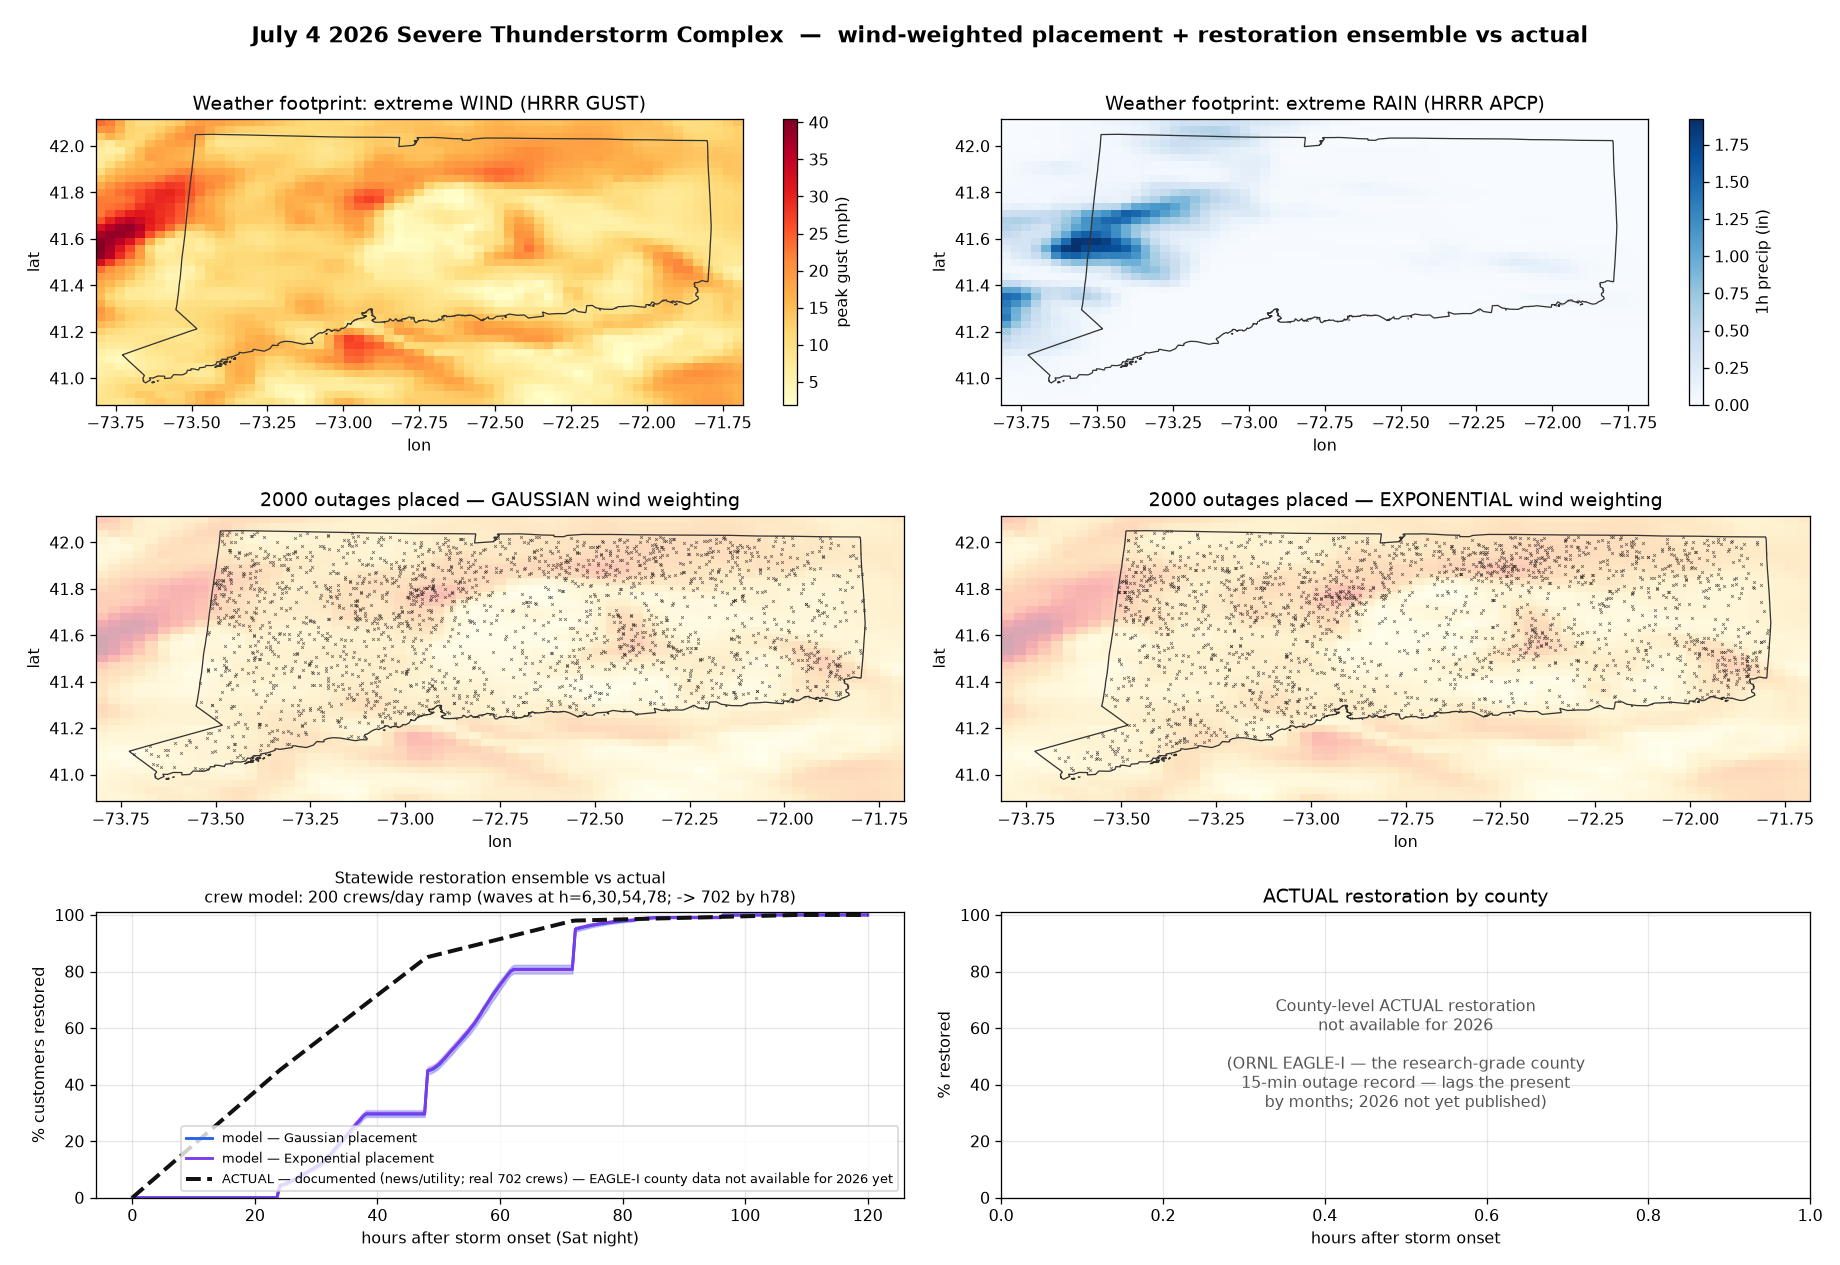
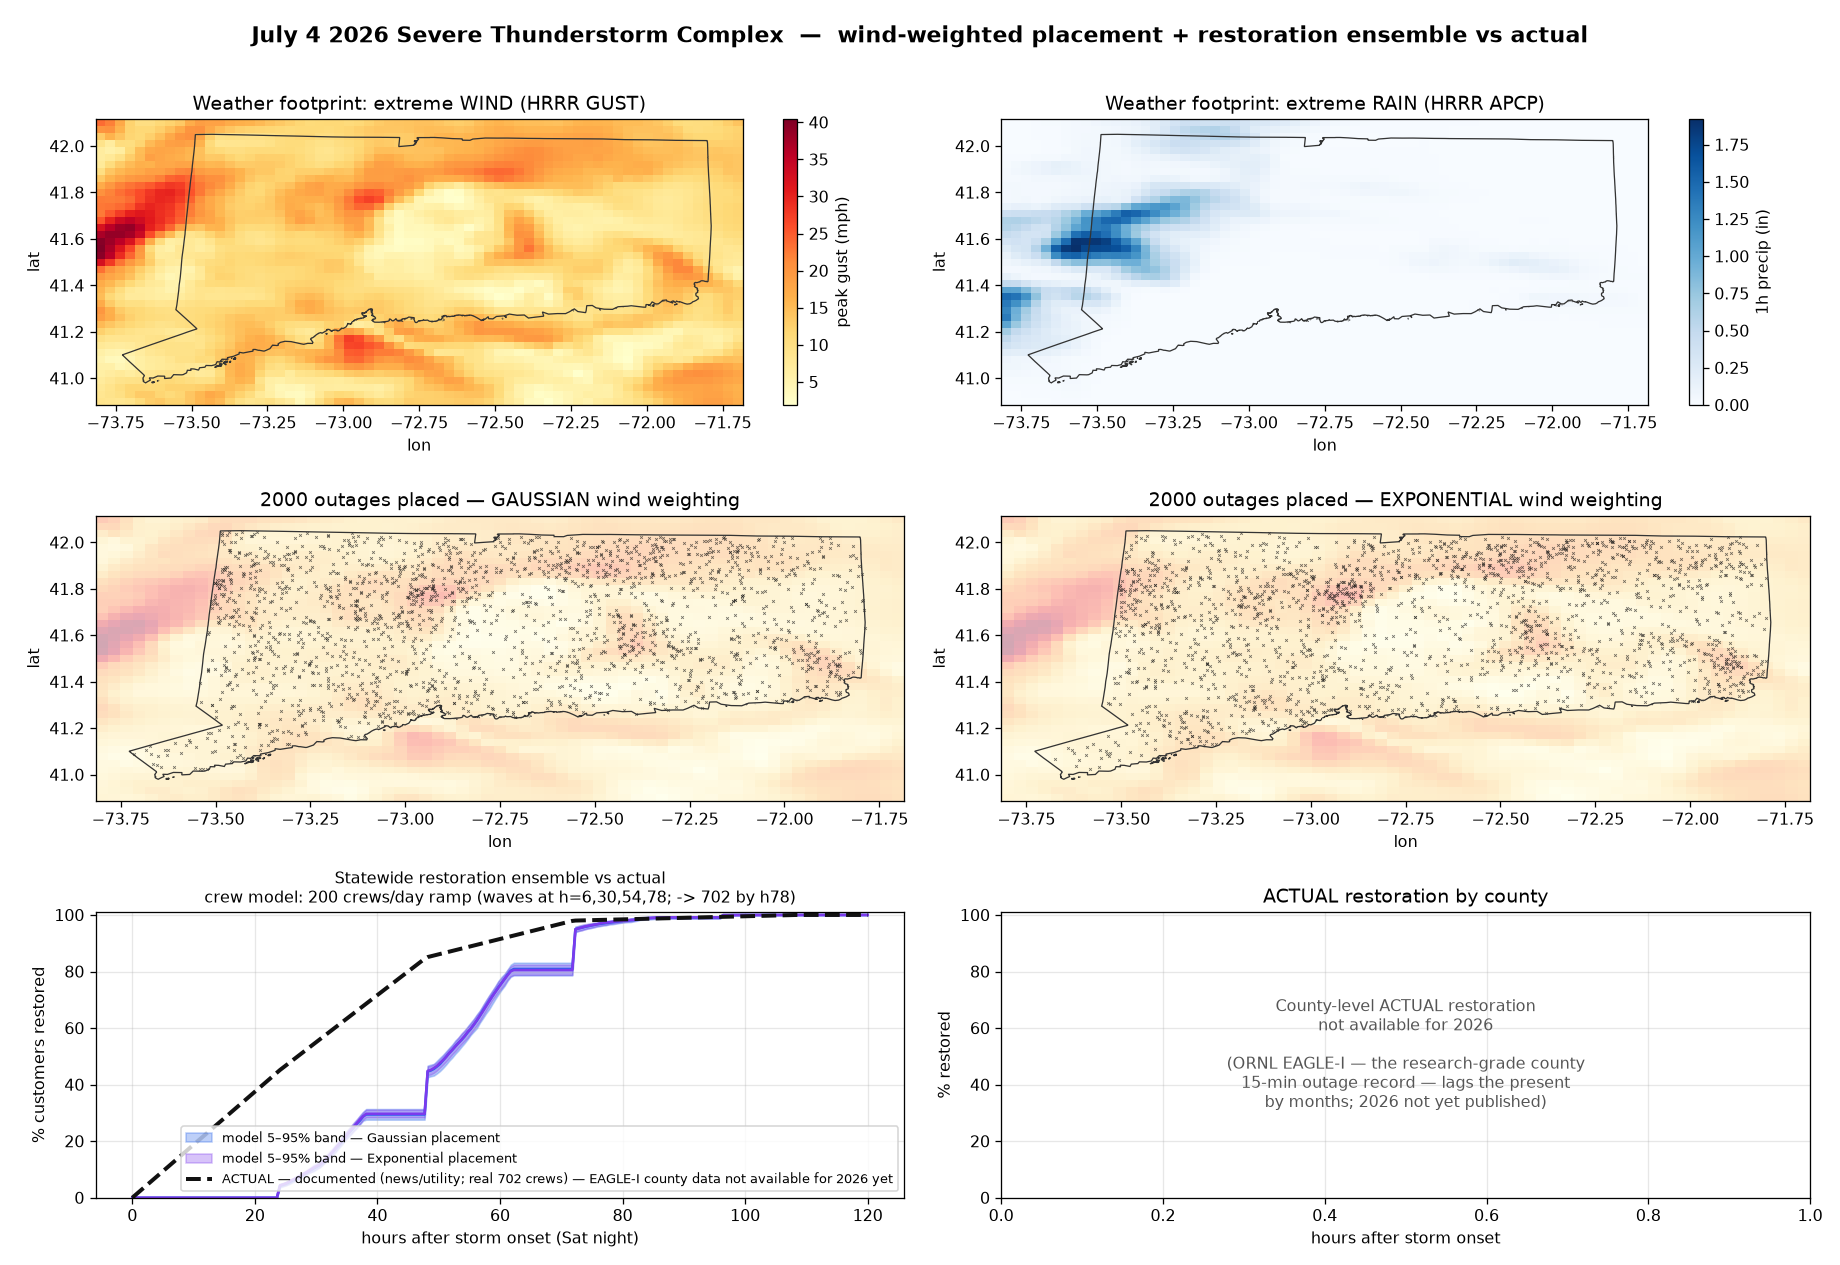
Add crew back-out analysis; fix un-ported discMaxTail in Python schedulers
New 21_crew_backout.py answers "how many crews does the model imply, vs
what the utility disclosed?" It inverts the model: for each storm, binary-
search the crew count at which the model reproduces the REAL restoration
time (EAGLE-I-measured / PURA / documented), and compare that implied
effective crew count to the disclosed peak crews. Table + two plots
(implied-vs-disclosed 1:1, crews-vs-storm-size surge relationship).

Building it surfaced a real bug: the discovery-tail cap (discMaxTail) that
scales with storm size was fixed in the JS scheduler earlier this session
but never ported to the three PYTHON schedulers, which still hardcoded
min(36h). That put a spurious ~46h discovery floor on small storms in the
Python path -- so the server (and the back-out) over-predicted small
storms regardless of crews, diverging from the calibrated JS. Ported the
size-scaled cap to scheduler_numba (both njit variants), scheduler_fast,
and 05_generate_artifacts. Large storms (N~20k) are unchanged (cap still
36h); small storms now match the JS. Verified: Oct 2020 at 300 crews went
from a buggy 61h to 48.6h (matching JS ~45h) and is crew-responsive again.

Findings (with honest caveats):
 - The two BEST-sourced storms -- Isaias (real 4500 crews, EAGLE-I 199h)
   and Dec 2023 (real 700, 96h) -- both imply 0.79x their disclosed crews.
   A clean, consistent read: ~20% of disclosed "crews" are tree/assessment/
   support (not line restoration), or equivalently the model's per-crew
[…]

diff --git a/21_crew_backout.py b/21_crew_backout.py
@@ -1,0 +1,209 @@
+"""
+21_crew_backout.py -- Estimate each storm's crew count by INVERTING the
+restoration model, then validate against the utility's disclosed crew numbers.
+
+The idea: the model's restoration time is monotonic in crew count (more crews
+-> faster). So for a storm whose REAL restoration time we measured (by tracking
+the actual outage decay -- ORNL EAGLE-I 15-min data where it exists, PURA
+docket / news where it doesn't), we can binary-search the crew count M at which
+the model reproduces that real time. That M is the "model-implied effective
+crew count." Comparing it to the crews the utility ACTUALLY disclosed tells us:
+
+  - implied ~ disclosed  -> the model's crew productivity is calibrated right
+  - implied systematically off -> quantifies model bias, or reveals real crew
+    inefficiency (out-of-town mutual-aid crews work slower, "crews" may bundle
+    support staff, etc.)
+  - implied-vs-disclosed across storm sizes -> surge/reserve behavior
+
+Uses scheduler_numba (the real statewide model) consistently for every storm,
+so any systematic model offset is the same across the comparison. Placement is
+uniform over CT land at each storm's calibrated outage count -- for a whole-
+state restoration TIME the count + crews dominate; exact spatial pattern is
+second-order (and using one placement scheme keeps storms comparable).
+
+Usage:
+    python 21_crew_backout.py
+"""
+from __future__ import annotations
+import json
+from pathlib import Path
+
+import numpy as np
+
+HERE = Path(__file__).parent
+DATA = HERE / "data"
+OUT_DIR = HERE / "output"
+
+# name, calibrated n_out, customer peak, real restoration hours, real-time
+# source, disclosed peak crews, disclosed-crew confidence.
+#   time_src: "eaglei" (measured 15-min) | "pura" (regulatory) | "documented"
+#   crew_conf: "real" (utility/press disclosed) | "interp" (interpolated here)
+STORMS = [
+    # label,            n_out, cust,   real_h, time_src,     crews, crew_conf
+    ("Isaias 2020",     20450, 632632, 199,   "eaglei",     4500,  "real"),
+    ("Sandy 2012",      15500, 496769, 264,   "pura",       4000,  "interp"),
+    ("Irene 2011",      21350, 671789, 288,   "pura",       3800,  "interp"),
+    ("Snowtober 2011",  26050, 807228, 264,   "pura",       4800,  "interp"),
+    ("Aug 2020 Tornado", 2050,  63912,  66,   "eaglei",      380,  "real"),
+    ("Oct 2020 Derecho",  950,  27943,  28,   "eaglei",      300,  "interp"),
+    ("Henri 2021",        830,  23000,  34,   "eaglei",      300,  "interp"),
+    ("Ida 2021",         1250,  36822,  51,   "eaglei",      300,  "interp"),
+    ("Dec 2023",         2850,  89000,  96,   "documented",  700,  "real"),
+    ("July 2026",        6000, 180000, 108,   "documented",  702,  "real"),
+]
+
+CREW_LO, CREW_HI = 8, 12000       # binary-search bounds
+N_SEED = 4                        # median over this many seeds per evaluation
+
+
+def load_land_polygon():
+    from shapely.geometry import shape
+    lb = json.loads((DATA / "connecticut_land_boundary.json").read_text())
+    return shape(lb[0]["geojson"])
+
+
+def uniform_ct_points(n, land_poly, rng):
+    from shapely.geometry import Point
+    minx, miny, maxx, maxy = land_poly.bounds
+    pts = []
+    while len(pts) < n:
+        take = (n - len(pts)) * 2
+        xs = rng.uniform(minx, maxx, take)
+        ys = rng.uniform(miny, maxy, take)
+        for x, y in zip(xs, ys):
+            if land_poly.contains(Point(x, y)):
+                pts.append((round(float(y), 5), round(float(x), 5)))
+                if len(pts) >= n:
+                    break
+    return pts
+
+
+def model_time(outages, m_crews, total_customers):
+    """Median model restoration time (busy-crew completion) over N_SEED seeds."""
+    from scheduler_numba import plan_restoration_numba
+    per = max(1.0, total_customers / len(outages))
+    customers = [per] * len(outages)
+    ts = []
+    for s in range(N_SEED):
+        _crews, total, _tl = plan_restoration_numba(
+            outages, m_crews, realistic=True, seed=42 + s * 137,
+            customers=customers, total_customers=total_customers,
+        )
+        ts.append(total)
+    return float(np.median(ts))
+
+
+def backout_crews(outages, real_h, total_customers):
+    """Binary-search the constant crew count whose model restoration time
+    matches real_h. Returns (implied_crews, model_time_at_that_M, floor_h).
+    floor_h = model time at CREW_HI (the fastest the model can go); if
+    real_h < floor_h the storm restored faster than the model can achieve at
+    any crew count (the assessment/overnight/travel floor is the bottleneck,
+    not crews) -> implied crews is reported as '>CREW_HI'."""
+    t_hi = model_time(outages, CREW_HI, total_customers)   # fastest possible
+    t_lo = model_time(outages, CREW_LO, total_customers)   # slowest
+    if real_h <= t_hi:
+        return None, t_hi, t_hi          # unreachable: below the model floor
+    if real_h >= t_lo:
+        return CREW_LO, t_lo, t_hi       # needs fewer than the min tried
+    lo, hi = CREW_LO, CREW_HI
+    while hi - lo > max(5, int(0.02 * lo)):
+        mid = (lo + hi) // 2
+        t = model_time(outages, mid, total_customers)
+        if t > real_h:       # too slow -> need more crews
+            lo = mid
+        else:                # fast enough -> can use fewer
+            hi = mid
+    m = (lo + hi) // 2
+    return m, model_time(outages, m, total_customers), t_hi
+
+
+def main():
+    land = load_land_polygon()
+    rng = np.random.default_rng(7)
+
+    rows = []
+    print(f"{'Storm':<17}{'cust':>8}{'realH':>6}{'src':>5}"
+          f"{'model@disc':>11}{'implied':>9}{'disc':>6}{'conf':>7}{'impl/disc':>10}")
+    for label, n_out, cust, real_h, tsrc, disc, cconf in STORMS:
+        pts = uniform_ct_points(n_out, land, rng)
+        # Raw model accuracy: what the model predicts at the DISCLOSED crew
+        # count, next to the real time -- makes the inversion interpretable.
+        t_disc = model_time(pts, disc, cust)
+        implied, t_at, floor_h = backout_crews(pts, real_h, cust)
+        if implied is None:
+            ratio_s = "n/a(floor)"
+            impl_s = f">{CREW_HI}"
+            impl_val = np.nan
+        else:
+            impl_val = implied
+            impl_s = f"{implied}"
+            ratio_s = f"{implied/disc:.2f}"
+        print(f"{label:<17}{cust:>8}{real_h:>6}{tsrc[:4]:>5}"
+              f"{t_disc:>10.0f}h{impl_s:>9}{disc:>6}{cconf:>7}{ratio_s:>10}"
+              + (f"  [floor {floor_h:.0f}h > real {real_h}h]" if implied is None else ""))
+        rows.append(dict(label=label, cust=cust, real_h=real_h, tsrc=tsrc,
+                         t_disc=t_disc, implied=impl_val, disc=disc,
+                         cconf=cconf, floor_h=floor_h))
+
+    make_plot(rows)
+
+
+def make_plot(rows):
+    import matplotlib
+    matplotlib.use("Agg")
+    import matplotlib.pyplot as plt
+
+    fig, (axL, axR) = plt.subplots(1, 2, figsize=(15, 6.2))
+    fig.suptitle("Crew count back-out: model-implied effective crews vs utility-disclosed",
+                 fontsize=13, weight="bold")
+
+    ok = [r for r in rows if not np.isnan(r["implied"])]
+    # Left: implied vs disclosed, 1:1 line. Color by disclosed-crew confidence.
+    for r in rows:
+        color = "#16a34a" if r["cconf"] == "real" else "#f59e0b"
+        marker = "o" if not np.isnan(r["implied"]) else "v"
+        y = r["implied"] if not np.isnan(r["implied"]) else r["disc"]
+        axL.scatter(r["disc"], y, s=70, color=color, marker=marker,
+                    edgecolor="#222", zorder=5)
+        axL.annotate(r["label"], (r["disc"], y), fontsize=7,
+                     xytext=(5, 4), textcoords="offset points")
+    mx = max(max(r["disc"] for r in rows),
+             max(r["implied"] for r in ok)) * 1.15
+    axL.plot([0, mx], [0, mx], ls="--", color="#888", label="1:1 (model = disclosed)")
+    axL.set_xlabel("utility-DISCLOSED peak crews")
+    axL.set_ylabel("model-IMPLIED effective crews")
+    axL.set_title("Implied vs disclosed  (green=disclosed real, orange=interpolated;\n"
+                  "▽ = storm restored faster than model floor, plotted at disclosed)",
+                  fontsize=9)
+    axL.legend(fontsize=8); axL.grid(alpha=0.3)
+    axL.set_xlim(0, mx); axL.set_ylim(0, mx)
+
+    # Right: implied crews vs storm size (customers) -> surge/reserve curve.
+    for r in ok:
+        color = "#16a34a" if r["cconf"] == "real" else "#f59e0b"
+        axR.scatter(r["cust"], r["implied"], s=70, color=color, edgecolor="#222", zorder=5)
+        axR.annotate(r["label"], (r["cust"], r["implied"]), fontsize=7,
+                     xytext=(5, 4), textcoords="offset points")
+    # disclosed for comparison (hollow)
+    for r in rows:
+        axR.scatter(r["cust"], r["disc"], s=45, facecolor="none",
+                    edgecolor="#2563eb", zorder=4)
+    axR.plot([], [], "o", color="#16a34a", label="implied (disclosed real)")
+    axR.plot([], [], "o", color="#f59e0b", label="implied (disclosed interp)")
+    axR.plot([], [], "o", markerfacecolor="none", markeredgecolor="#2563eb",
+             label="disclosed peak crews")
+    axR.set_xlabel("storm peak customers out")
+    axR.set_ylabel("crews")
+    axR.set_title("Crews vs storm size — surge/reserve relationship", fontsize=10)
+    axR.legend(fontsize=8); axR.grid(alpha=0.3)
+
+    fig.tight_layout(rect=[0, 0, 1, 0.95])
+    OUT_DIR.mkdir(exist_ok=True)
+    out = OUT_DIR / "crew_backout.png"
+    fig.savefig(out, dpi=115, facecolor="white")
+    print(f"\nWrote {out}")
+
+
+if __name__ == "__main__":
+    main()

diff --git a/scheduler_numba.py b/scheduler_numba.py
@@ -59,7 +59,14 @@ def _run_scheduler(lat, lon, m_crews, realistic, seed, customers, customer_weigh
     rep_state = (seed * 1117 + 23) & 0xFFFFFFFF
     disc_state = (seed * 991 + 7) & 0xFFFFFFFF
 
-    # Discovery times.
+    # Discovery times. The tail cap scales with storm size (parity with the
+    # JS scheduler's discMaxTail -- see 03_grid_simulation.html): assessing
+    # every last outage takes ~36h only at mega-storm scale (N~20k); a few
+    # hundred scattered outages are found in hours. The old flat 36h here
+    # (un-ported when the JS was fixed) put a spurious ~46h discovery floor
+    # on small storms, making the server over-predict them regardless of
+    # crews -- caught by 21_crew_backout.py.
+    disc_max_tail = max(3.0, 36.0 * math.sqrt(N / 20000.0))
     disc = np.zeros(N, dtype=np.float64)
     if realistic:
         for i in range(N):
@@ -69,7 +76,7 @@ def _run_scheduler(lat, lon, m_crews, realistic, seed, customers, customer_weigh
             else:
                 v = (u - 0.30) / 0.70
                 t_after = -math.log(max(1e-9, 1.0 - 0.99 * v)) / 0.1
-                disc[i] = ASSESSMENT_DELAY + 1.0 + min(36.0, t_after)
+                disc[i] = ASSESSMENT_DELAY + 1.0 + min(disc_max_tail, t_after)
     disc_sorted = np.sort(disc) if realistic else disc
 
     # Crew arrival times. A caller-supplied schedule (crew_arrivals_in with
@@ -360,9 +367,10 @@ def _run_scheduler_grid(lat, lon, m_crews, realistic, seed, G, customers, custom
         bucket_idx[bucket_start[c] + cursor[c]] = i
         cursor[c] += 1
 
-    # Discovery times.
+    # Discovery times (size-scaled tail cap -- see _run_scheduler).
     rep_state = (seed * 1117 + 23) & 0xFFFFFFFF
     disc_state = (seed * 991 + 7) & 0xFFFFFFFF
+    disc_max_tail = max(3.0, 36.0 * math.sqrt(N / 20000.0))
     disc = np.zeros(N, dtype=np.float64)
     if realistic:
         for i in range(N):
@@ -372,7 +380,7 @@ def _run_scheduler_grid(lat, lon, m_crews, realistic, seed, G, customers, custom
             else:
                 v = (u - 0.30) / 0.70
                 t_after = -math.log(max(1e-9, 1.0 - 0.99 * v)) / 0.1
-                disc[i] = ASSESSMENT_DELAY + 1.0 + min(36.0, t_after)
+                disc[i] = ASSESSMENT_DELAY + 1.0 + min(disc_max_tail, t_after)
     disc_sorted = np.sort(disc) if realistic else disc
 
     # Crew arrivals (caller override or default waves -- see _run_scheduler).

diff --git a/20_ensemble_vs_actual.py b/20_ensemble_vs_actual.py
@@ -286,11 +286,17 @@ def make_figure(cfg_label, lats, lons, wind, rain, placements_g, placements_e,
     ax5 = fig.add_subplot(3, 2, 5)
     # Crew model: daily ramp. Gaussian vs Exponential placement overlap
     # almost exactly -> kernel choice barely affects restoration timing.
+    # The uncertainty band is the 5-95th percentile across the ensemble
+    # (placement + stochastic repair-time variation); it is genuinely narrow
+    # because at a fixed crew schedule the whole-state restoration time is
+    # crew-bound and thus quite predictable -- the spread is a real result,
+    # not a missing band.
     for env, color, name in [(env_g, "#2563eb", "Gaussian placement"),
                              (env_e, "#7c3aed", "Exponential placement")]:
-        lo, med, hi = np.percentile(env, [10, 50, 90], axis=0)
-        ax5.fill_between(sample_h, 100 * lo, 100 * hi, color=color, alpha=0.18)
-        ax5.plot(sample_h, 100 * med, color=color, lw=1.8, label=f"model — {name}")
+        lo, med, hi = np.percentile(env, [5, 50, 95], axis=0)
+        ax5.fill_between(sample_h, 100 * lo, 100 * hi, color=color, alpha=0.30,
+                         label=f"model 5–95% band — {name}")
+        ax5.plot(sample_h, 100 * med, color=color, lw=1.6)
     if state_curve is not None:
         ax5.plot(sample_h, 100 * state_curve, color="#111", lw=2.5, ls="--",
                  label=f"ACTUAL — {actual_note}")

diff --git a/scheduler_fast.py b/scheduler_fast.py
@@ -102,7 +102,9 @@ def plan_restoration_fast(outages, m_crews, realistic=True, seed=42, total_custo
         z = math.sqrt(-2 * math.log(u1)) * math.cos(2 * math.pi * u2)
         return max(0.25, min(12.0, math.exp(math.log(2) + 0.857 * z)))
 
-    # Discovery times — vectorized
+    # Discovery times — vectorized. Size-scaled tail cap (parity with the JS
+    # scheduler's discMaxTail); the old flat 36h over-predicted small storms.
+    disc_max_tail = max(3.0, 36.0 * math.sqrt(N / 20000.0))
     if realistic:
         u = np.array([rnd_disc() for _ in range(N)], dtype=np.float64)
         disc = np.empty(N, dtype=np.float64)
@@ -110,7 +112,7 @@ def plan_restoration_fast(outages, m_crews, realistic=True, seed=42, total_custo
         disc[mask_lo] = ASSESSMENT_DELAY + u[mask_lo] * (1.0 / 0.30)
         v = (u[~mask_lo] - 0.30) / 0.70
         t_after = -np.log(np.maximum(1e-9, 1 - 0.99 * v)) / 0.1
-        disc[~mask_lo] = ASSESSMENT_DELAY + 1 + np.minimum(36.0, t_after)
+        disc[~mask_lo] = ASSESSMENT_DELAY + 1 + np.minimum(disc_max_tail, t_after)
     else:
         disc = np.zeros(N, dtype=np.float64)
 

diff --git a/05_generate_artifacts.py b/05_generate_artifacts.py
@@ -254,6 +254,8 @@ def plan_restoration(outages, m_crews, rnd_master, realistic=True, total_custome
 
     # Item 3: discovery times
     disc_time = [0.0] * N
+    # Size-scaled discovery tail cap (parity with the JS discMaxTail).
+    disc_max_tail = max(3.0, 36.0 * _math.sqrt(N / 20000.0))
     if realistic:
         for i in range(N):
             u = rnd_disc()
@@ -262,7 +264,7 @@ def plan_restoration(outages, m_crews, rnd_master, realistic=True, total_custome
             else:
                 v = (u - 0.30) / 0.70
                 t_after = -_math.log(max(1e-9, 1 - 0.99 * v)) / 0.1
-                disc_time[i] = ASSESSMENT_DELAY + 1 + min(36.0, t_after)
+                disc_time[i] = ASSESSMENT_DELAY + 1 + min(disc_max_tail, t_after)
 
     # Item 4: mutual-aid waves
     if realistic and m_crews >= 6: